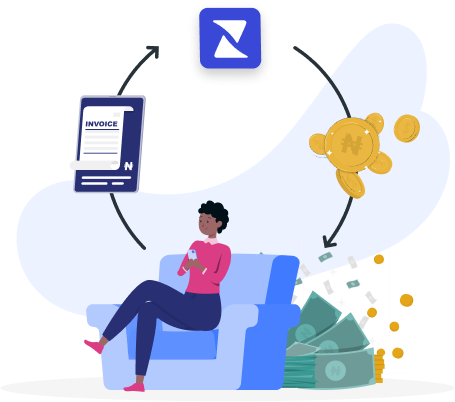
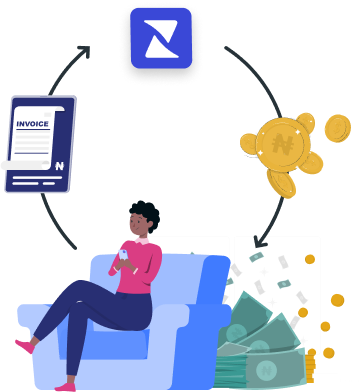
Updated hero

diff --git a/assets/css/style.css b/assets/css/style.css
@@ -382,7 +382,7 @@ section {
 .hero {
   width: 100%;
   height: 100vh;
-  background: url(../img/hero-bg.png) top center no-repeat;
+  background: url(../img/hero-bg-2.png) top center no-repeat;
   background-size: cover;
 }
 .hero h1 {
